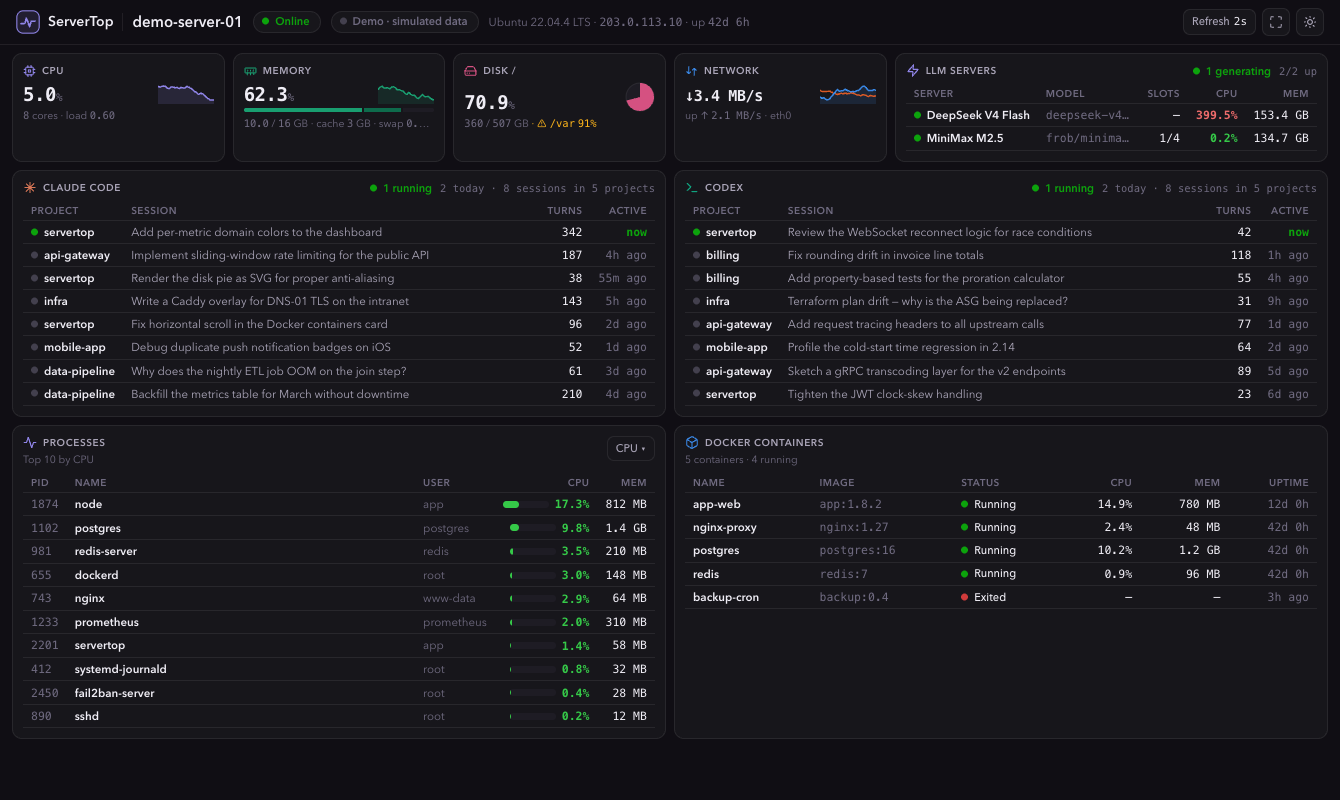
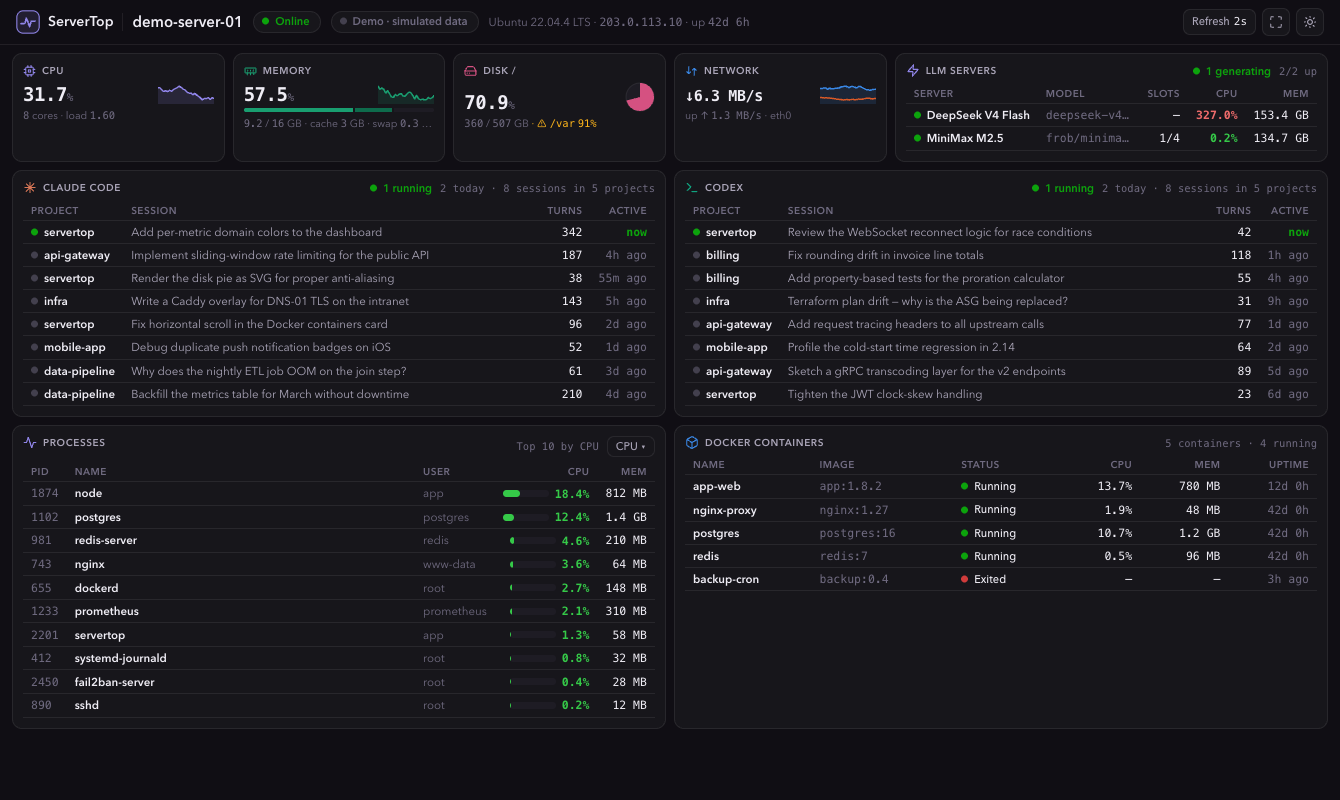
One-line heads for Processes and Docker cards too
Sub lines move into the head's right slot: 'Top N by CPU' sits beside
the sort toggle (button slimmed to keep the row short), container
counts sit top-right like the other cards.

diff --git a/web/src/components/cards.tsx b/web/src/components/cards.tsx
@@ -547,15 +547,19 @@ export function ProcessCard({
       <CardHead
         title="Processes"
         icon={<ActivityIcon color="var(--cpu)" />}
-        sub={`Top ${limit} by ${sort === 'cpu' ? 'CPU' : 'memory'}`}
         right={
-          <button
-            onClick={() => setSort(s => (s === 'cpu' ? 'mem' : 'cpu'))}
-            className="cursor-pointer rounded-[7px] border border-line bg-surface px-2 py-1 text-[11px] font-medium text-ink-2 hover:bg-surface-2"
-            title="Toggle sort: CPU / memory"
-          >
-            {sort === 'cpu' ? 'CPU' : 'Mem'} ▾
-          </button>
+          <span className="flex items-center gap-2">
+            <span className="num text-[10.5px] text-ink-3">
+              Top {limit} by {sort === 'cpu' ? 'CPU' : 'memory'}
+            </span>
+            <button
+              onClick={() => setSort(s => (s === 'cpu' ? 'mem' : 'cpu'))}
+              className="cursor-pointer rounded-[7px] border border-line bg-surface px-2 py-0.5 text-[11px] font-medium text-ink-2 hover:bg-surface-2"
+              title="Toggle sort: CPU / memory"
+            >
+              {sort === 'cpu' ? 'CPU' : 'Mem'} ▾
+            </button>
+          </span>
         }
       />
       <div className="overflow-x-auto">
@@ -674,10 +678,13 @@ export function ContainerCard({
       <CardHead
         title="Docker Containers"
         icon={<BoxIcon color="var(--net-rx)" />}
-        sub={
-          available
-            ? `${containers.length} container${containers.length === 1 ? '' : 's'} · ${running} running`
-            : undefined
+        right={
+          available ? (
+            <span className="num text-[10.5px] text-ink-3">
+              {containers.length} container{containers.length === 1 ? '' : 's'} · {running}{' '}
+              running
+            </span>
+          ) : undefined
         }
       />
       {!available ? (